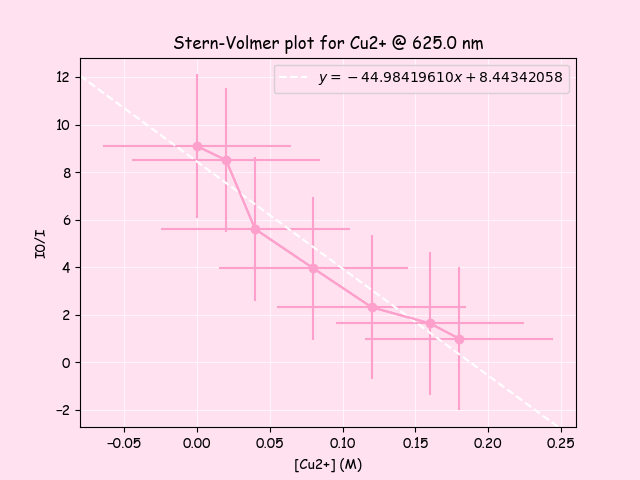
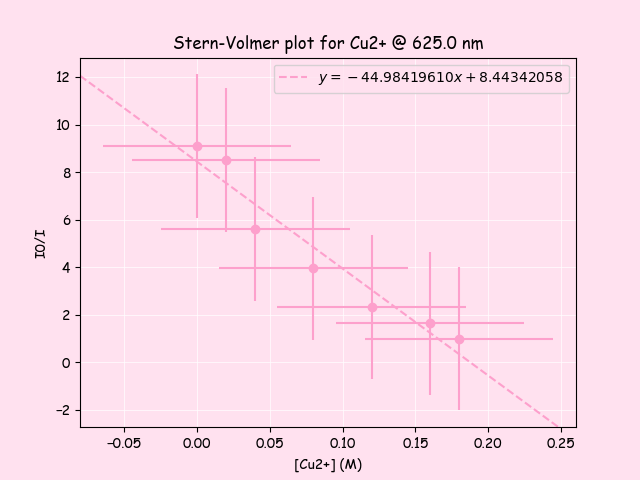
jail

diff --git a/part1.py b/part1.py
@@ -193,12 +193,12 @@ plt.rcParams['axes.facecolor'] = "#FFE1EF"
 plt.figure(facecolor="#FFE1EF")
 q1_feyaxis, fe_peak_wl = stern_volmer_y(fe, rubpy_emission)
 q1_fexaxis = fe_labels
-plt.plot(q1_fexaxis, q1_feyaxis, color = "#fda0cc", marker = 'o', )
+plt.scatter(q1_fexaxis, q1_feyaxis, color = "#fda0cc", marker = 'o', )
 xerrb = np.std(q1_fexaxis) #multiply by two or nah bc theyre on either side already
 yerrb = np.std(q1_feyaxis)
-plt.errorbar(q1_fexaxis, q1_feyaxis, xerr = xerrb , yerr = yerrb, color = "#fda0cc")
+plt.errorbar(q1_fexaxis, q1_feyaxis, xerr = xerrb , yerr = yerrb, color = "#fda0cc", ls = "none")
 m, b, *_ = stats.linregress(q1_fexaxis, q1_feyaxis)
-plt.axline(xy1=(0, b), slope=m, label=f'$y = {m:.8f}x {b:+.8f}$', color = "w", linestyle = "--")
+plt.axline(xy1=(0, b), slope=m, label=f'$y = {m:.8f}x {b:+.8f}$', color = "#fda0cc", linestyle = "--")
 plt.xlabel("[Fe3+] (M)")
 plt.legend()
 plt.ylabel("I0/I")
@@ -215,12 +215,12 @@ plt.rcParams['axes.facecolor'] = "#FFE1EF"
 plt.figure(facecolor="#FFE1EF")
 q1_cuyaxis, cu_peak_wl = stern_volmer_y(cu, rubpy_emission)
 q1_cuxaxis = cu_labels
-plt.plot(q1_cuxaxis, q1_cuyaxis, color = "#fda0cc", marker = 'o', )
+plt.scatter(q1_cuxaxis, q1_cuyaxis, color = "#fda0cc", marker = 'o', )
 xerrb = np.std(q1_cuxaxis) #multiply by two or nah bc theyre on either side already
 yerrb = np.std(q1_cuyaxis)
-plt.errorbar(q1_cuxaxis, q1_cuyaxis, xerr = xerrb , yerr = yerrb, color = "#fda0cc")
+plt.errorbar(q1_cuxaxis, q1_cuyaxis, xerr = xerrb , yerr = yerrb, color = "#fda0cc", ls = "none")
 m, b, *_ = stats.linregress(q1_cuxaxis, q1_cuyaxis)
-plt.axline(xy1=(0, b), slope=m, label=f'$y = {m:.8f}x {b:+.8f}$', color = "w", linestyle = "--")
+plt.axline(xy1=(0, b), slope=m, label=f'$y = {m:.8f}x {b:+.8f}$', color = "#fda0cc", linestyle = "--")
 plt.xlabel("[Cu2+] (M)")
 plt.legend()
 # plt.xlim(0, q1_cuxaxis[5])
